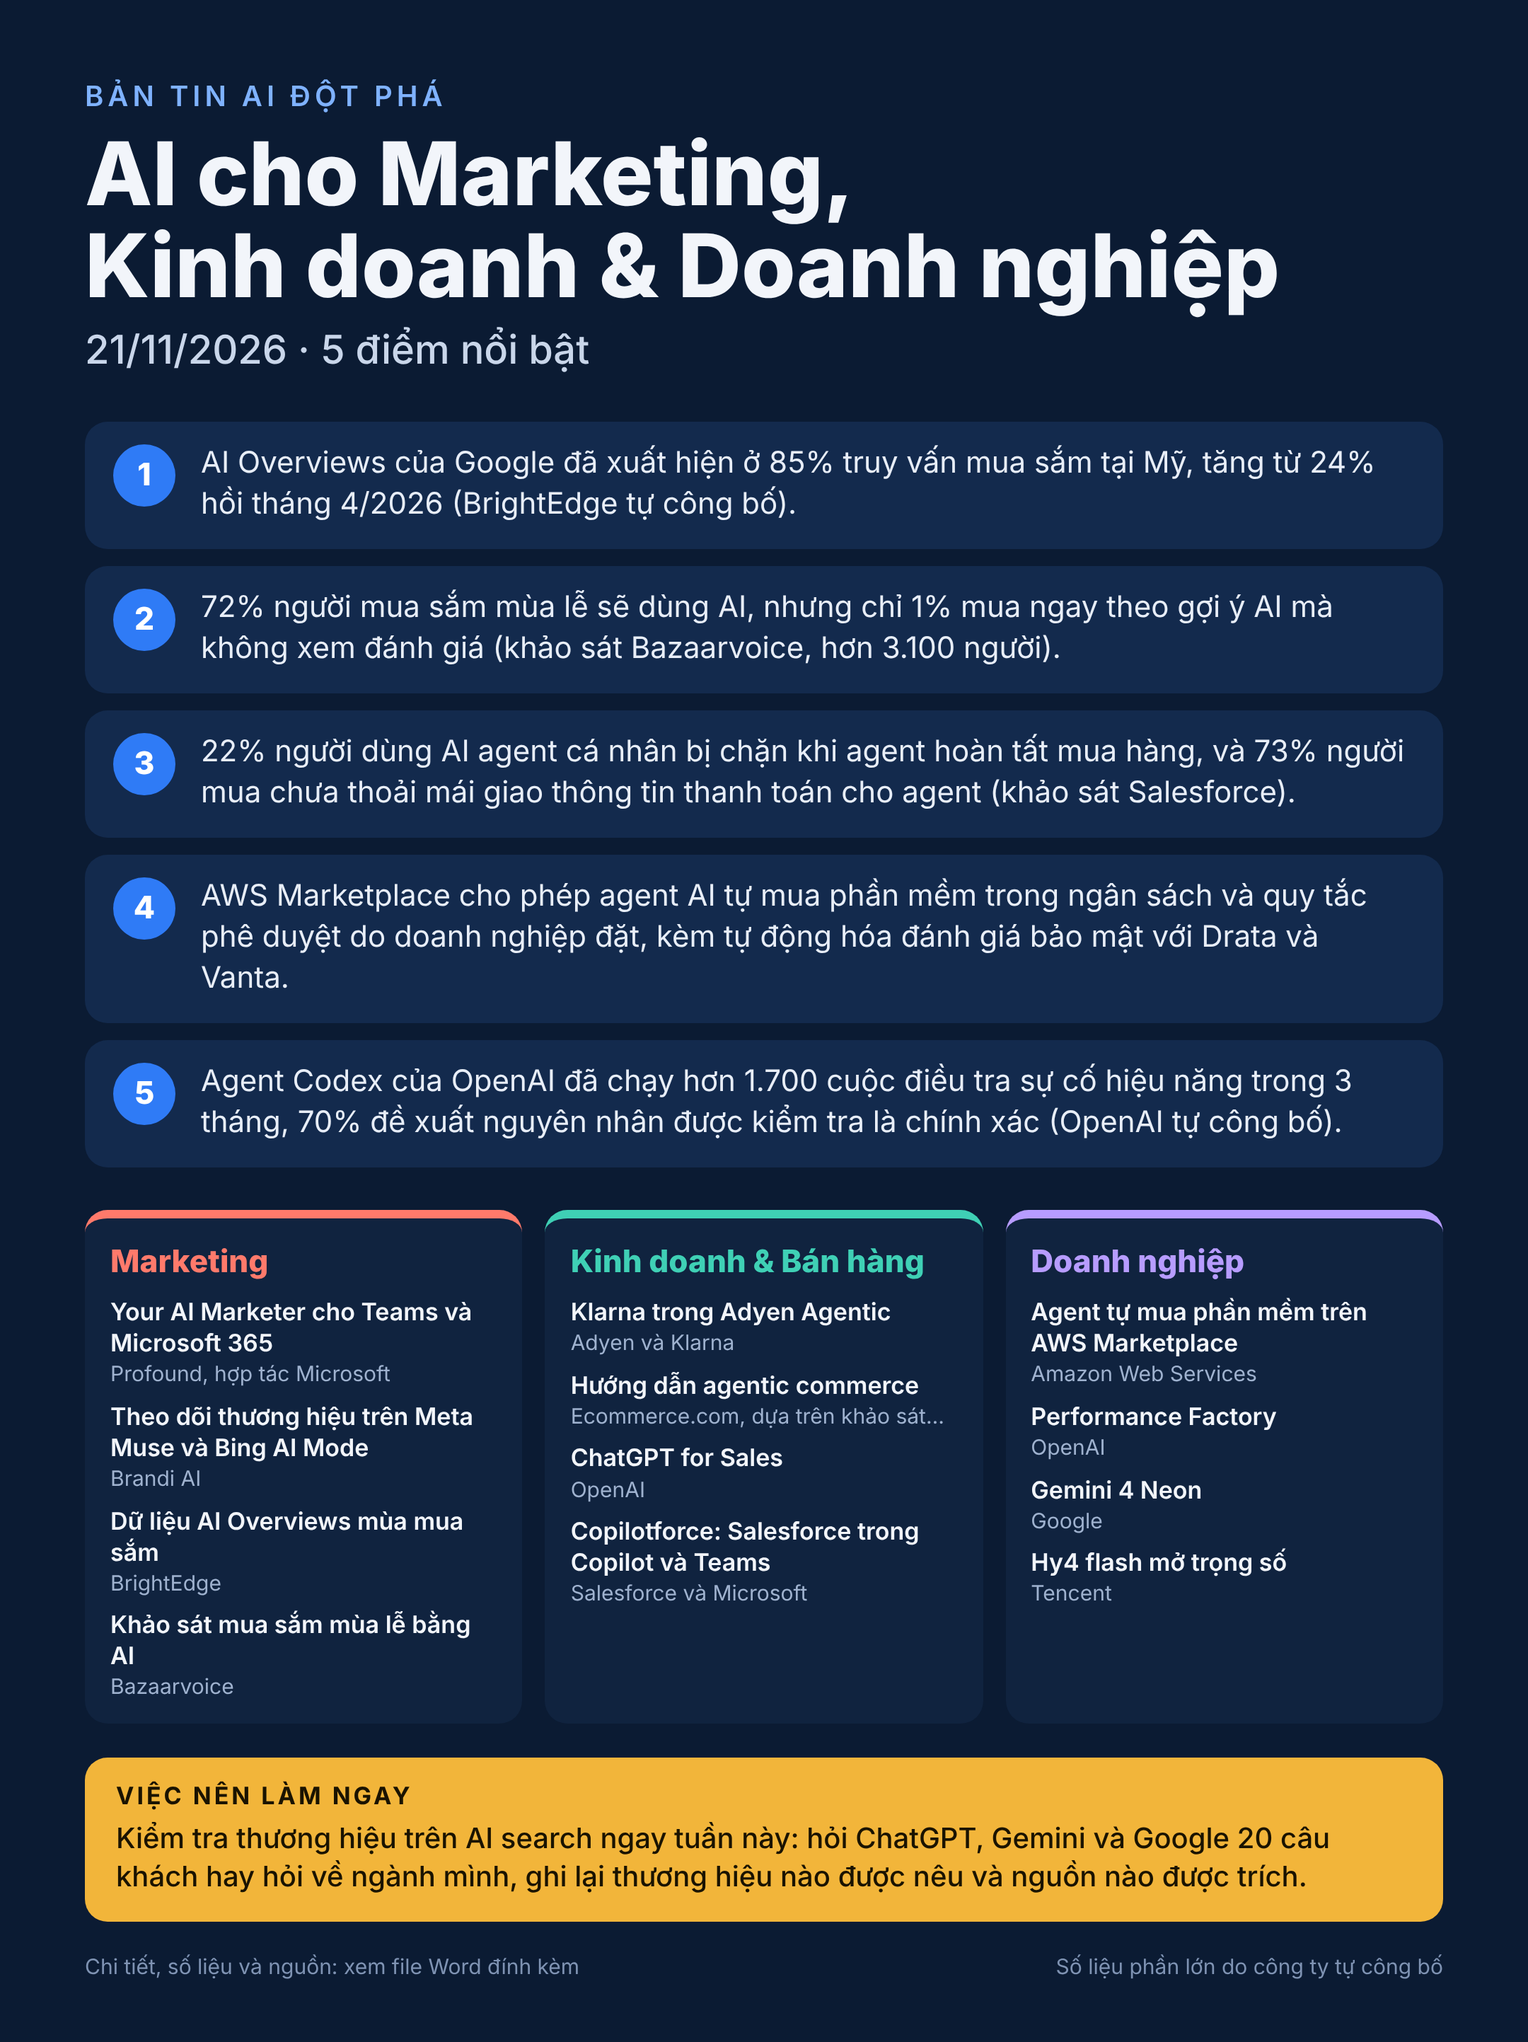
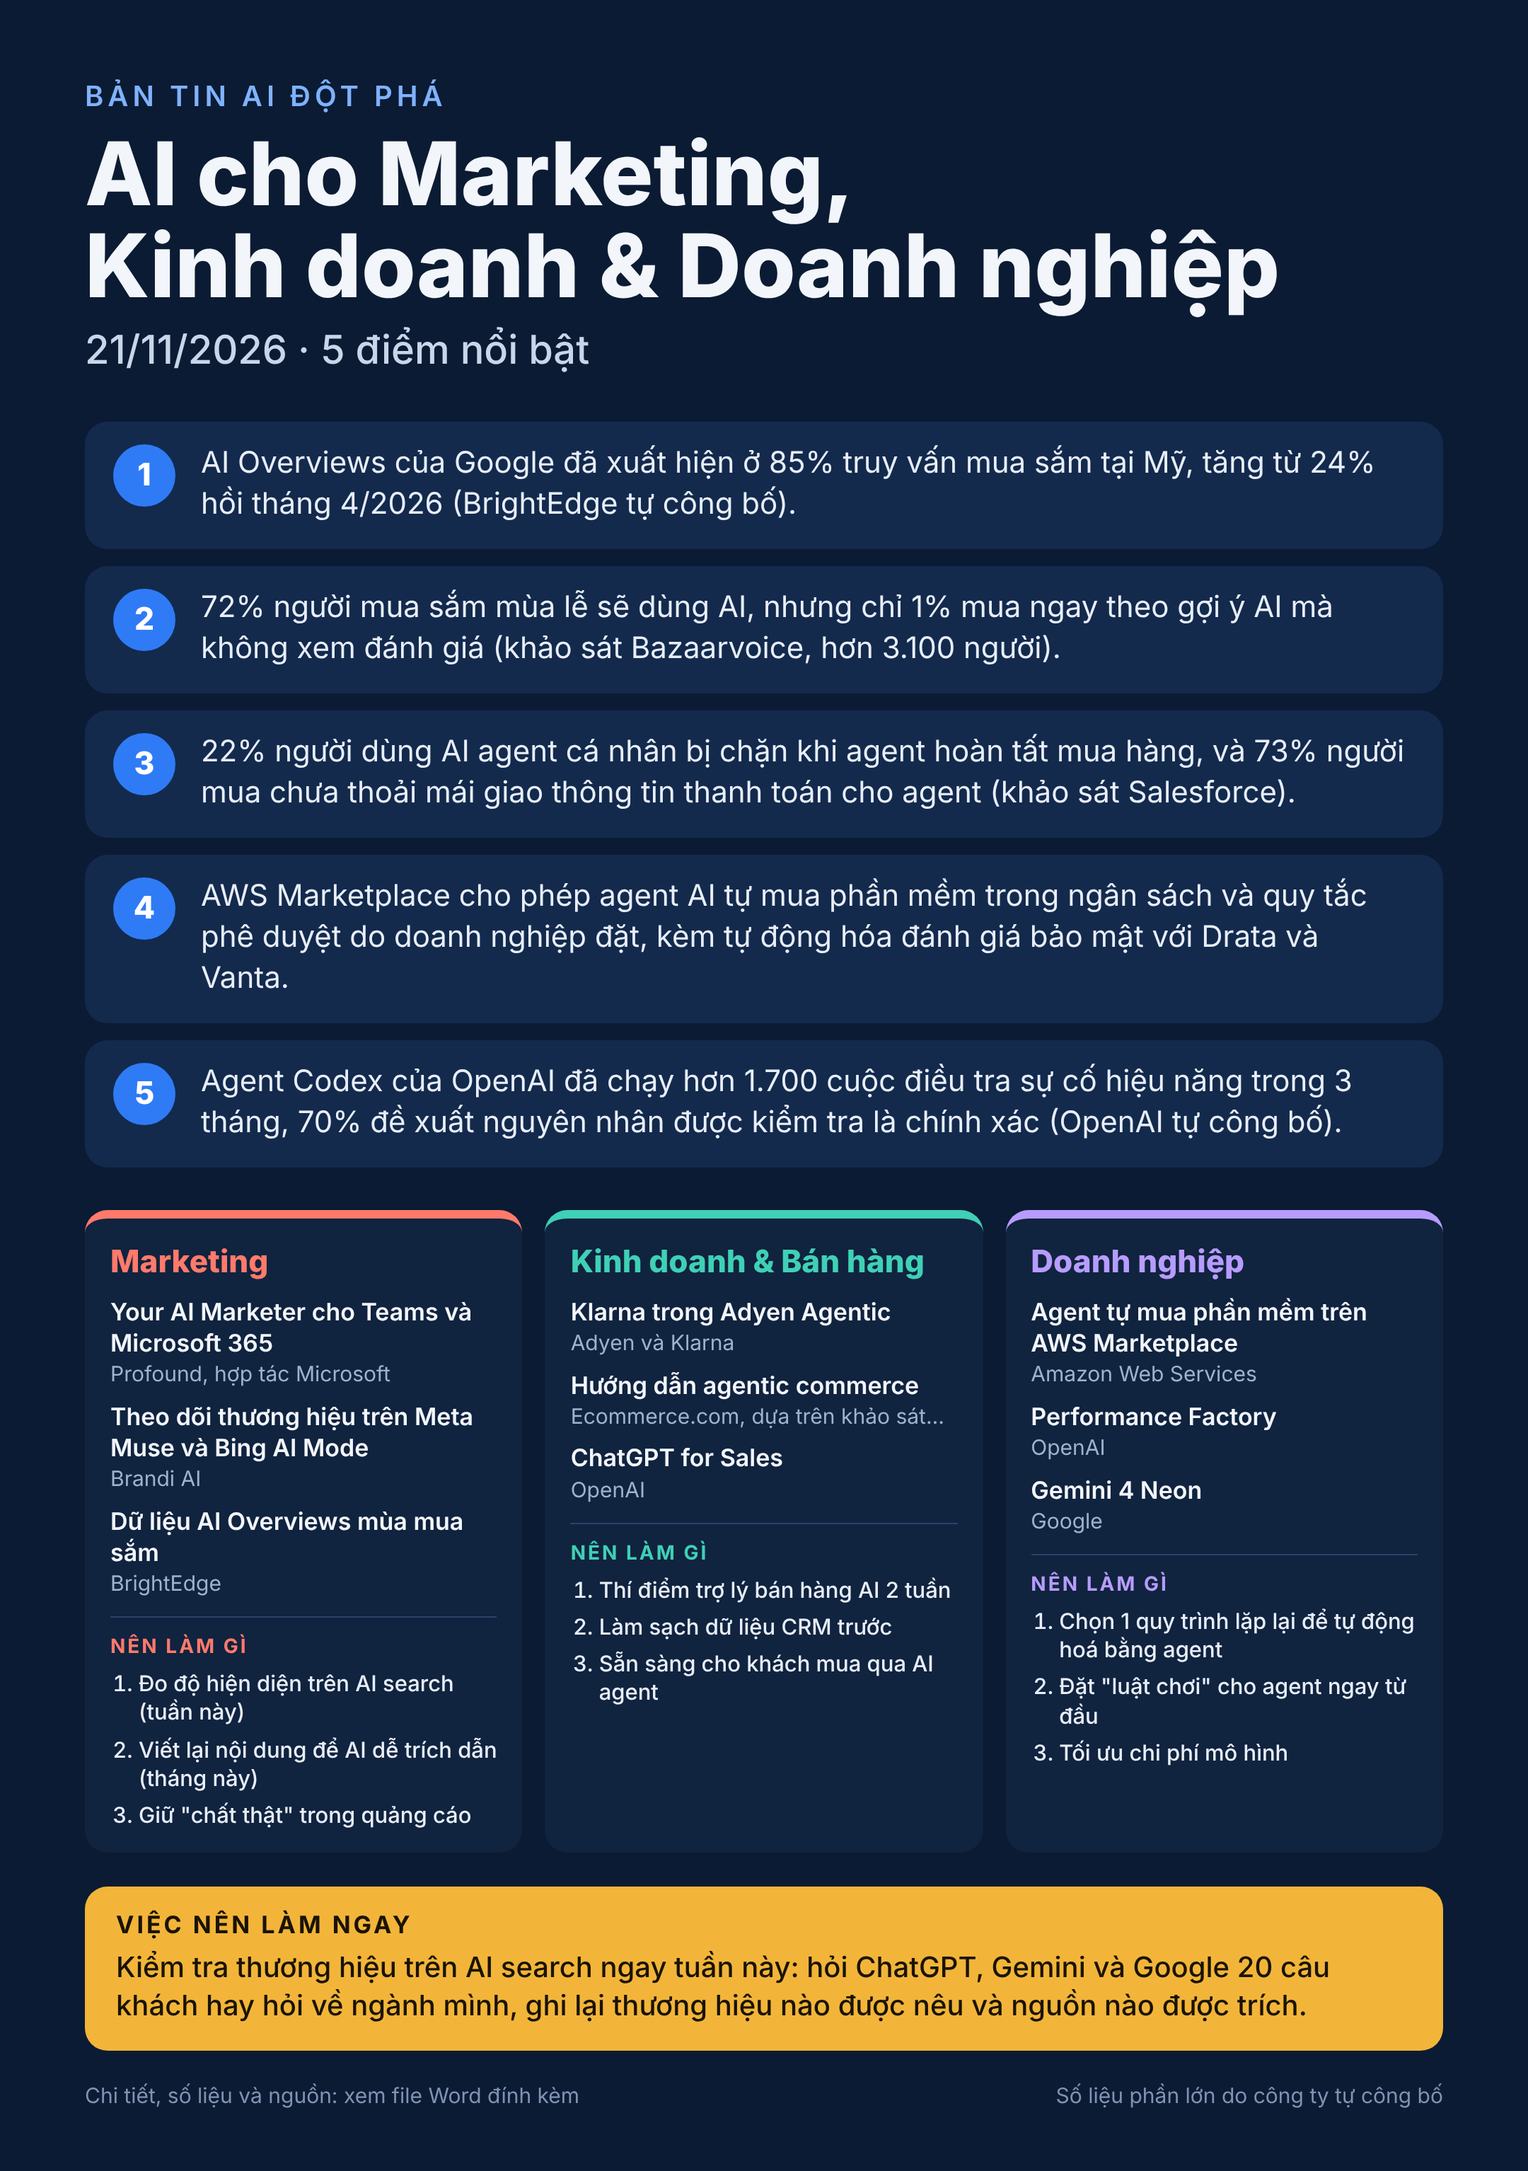
Thêm tư vấn giải pháp cho từng mảng vào bản tin AI
Claude-Session: https://claude.ai/code/session_0198WH8Bc1TvJbn8B3Eqt4gC

Changed region(s): [[0.031, 0.0312, 0.9616, 0.9667]]

diff --git a/ai-daily-report/tools/make_outputs.py b/ai-daily-report/tools/make_outputs.py
@@ -44,7 +44,15 @@ def parse_report(text):
                     cells = [c.strip() for c in line.strip().strip("|").split("|")]
                     if len(cells) >= 2 and cells[0].lower() not in ("ứng dụng",):
                         items.append({"name": strip_md(cells[0]), "org": strip_md(cells[1])})
-            data["areas"].append({"name": re.sub(r"^[123]\.\s*", "", head), "trend": trend, "items": items})
+            advice = []
+            am = re.search(r"^###\s+Tư vấn giải pháp.*?$(.*?)(?=^###\s|\Z)", body, re.M | re.S)
+            if am:
+                for b in re.findall(r"^\s*[-*]\s+(.+)$", am.group(1), re.M):
+                    bm = re.match(r"\*\*(.+?)\*\*", b)
+                    label = (bm.group(1) if bm else strip_md(b)).rstrip(": ").strip()
+                    if not label.lower().startswith("chỉ số"):
+                        advice.append(label)
+            data["areas"].append({"name": re.sub(r"^[123]\.\s*", "", head), "trend": trend, "items": items, "advice": advice})
         elif head.startswith("4.") or head.lower().startswith("gợi ý"):
             data["actions"] = [strip_md(x) for x in re.findall(r"^\s*[-*]\s+(.+)$", body, re.M)]
     return data
@@ -75,6 +83,10 @@ h1{font-size:62px;line-height:1.05;font-weight:800;margin-top:10px}
 .area ul{list-style:none;margin-top:12px;display:flex;flex-direction:column;gap:10px}
 .area li{font-size:17px;line-height:1.3;font-weight:600}
 .area li span{display:block;font-weight:400;color:#9FB2CF;font-size:15px}
+.adv{margin-top:14px;padding-top:12px;border-top:1px solid #2A4268}
+.adv b{display:block;font-size:14px;letter-spacing:1.5px;text-transform:uppercase;color:var(--c)}
+.adv ol{margin:8px 0 0 20px;display:flex;flex-direction:column;gap:6px}
+.adv li{font-size:15.5px;line-height:1.3;color:#E8EEF8;font-weight:500}
 .act{margin-top:24px;background:#F2B53A;color:#1A1300;border-radius:16px;padding:18px 22px}
 .act b{display:block;font-size:17px;letter-spacing:2px;text-transform:uppercase}
 .act p{font-size:20px;line-height:1.35;margin-top:6px;font-weight:500}
@@ -92,8 +104,10 @@ def build_poster_html(d):
     areas = ""
     for i, a in enumerate(d["areas"][:3]):
         lis = "".join(f'<li>{e(first_sentence(it["name"], 60))}<span>{e(first_sentence(it["org"], 40))}</span></li>'
-                      for it in a["items"][:4])
-        areas += f'<div class="area" style="--c:{COLORS[i % 3]}"><h2>{e(re.sub(r"^AI cho ", "", a["name"]))}</h2><ul>{lis}</ul></div>'
+                      for it in a["items"][:3])
+        adv = "".join(f"<li>{e(first_sentence(x, 70))}</li>" for x in a.get("advice", [])[:3])
+        adv_html = f'<div class="adv"><b>Nên làm gì</b><ol>{adv}</ol></div>' if adv else ""
+        areas += f'<div class="area" style="--c:{COLORS[i % 3]}"><h2>{e(re.sub(r"^AI cho ", "", a["name"]))}</h2><ul>{lis}</ul>{adv_html}</div>'
     act = d["actions"][0] if d["actions"] else ""
     act_html = f'<div class="act"><b>Việc nên làm ngay</b><p>{e(first_sentence(act, 190))}</p></div>' if act else ""
     return f"""<!doctype html><html lang="vi"><head><meta charset="utf-8"><style>{POSTER_CSS}</style></head>

diff --git a/ai-daily-report/samples/report.md b/ai-daily-report/samples/report.md
@@ -21,6 +21,13 @@ Nhận định: AI search đã thành kênh bán hàng mùa lễ, nên các côn
 | [Ask YouTube trên TV và máy chơi game](https://ppc.land/youtube-puts-ask-youtube-ai-search-on-tvs-and-gaming-consoles/) | YouTube (Google) | 19/11/2026 | Tìm kiếm hội thoại bằng giọng nói trên TV, trả lời kèm clip và tóm tắt video. YouTube nói hơn 140 triệu người dùng Ask YouTube (6/2026) và hơn 1 tỉ giờ xem trên TV mỗi ngày (tự công bố). |
 | [Khảo sát doanh nghiệp nhỏ mùa lễ](https://www.globenewswire.com/news-release/2026/11/19/3406608/0/en/verizon-survey-small-businesses-turn-to-social-media-ai-for-holidays.html) | Verizon Business | 19/11/2026 | 600 chủ doanh nghiệp nhỏ Mỹ: 45% dùng AI cho mùa lễ, 56% sẽ mở rộng AI sang marketing và tồn kho, 34% cần hỗ trợ làm nội dung mạng xã hội. Khảo sát do công ty đặt hàng. |
 
+### Tư vấn giải pháp: Marketing nên làm gì
+
+- **Đo độ hiện diện trên AI search (tuần này):** lập bộ 20–30 câu hỏi khách hay hỏi về ngành, hỏi ChatGPT, Gemini, Google AI Overviews; ghi thương hiệu nào được nêu, nguồn nào được trích. Lặp lại mỗi 2 tuần để thấy xu hướng. Công cụ: bảng tính thủ công trước, sau đó cân nhắc Profound hoặc Brandi AI khi cần quy mô.
+- **Viết lại nội dung để AI dễ trích dẫn (tháng này):** trang sản phẩm và bài blog cần câu trả lời ngắn ở đầu, bảng thông số, FAQ, số liệu có nguồn. Đây là thứ AI Overviews và ChatGPT thường lấy làm nguồn.
+- **Giữ "chất thật" trong quảng cáo:** dùng AI để làm nháp, biến thể và video ngắn, nhưng giữ ảnh sản phẩm thật, đánh giá thật của khách. 30% người mua Bắc Mỹ quay lưng với người mẫu AI, nên A/B test trước khi thay toàn bộ.
+- **Chỉ số theo dõi:** tỉ lệ câu hỏi có nêu thương hiệu, số nguồn của mình được trích, lượt truy cập đến từ ChatGPT/Perplexity trong Google Analytics.
+
 ## 2. AI cho Kinh doanh & Bán hàng
 
 Nhận định: Trước Black Friday, cuộc đua chuyển sang để AI agent tự thanh toán, nhưng niềm tin và tỉ lệ đơn bị chặn vẫn là điểm nghẽn. 48 giờ qua ít tin lớn, nên bảng có thêm 2 tin ngày 17/11 (ngoài khung 48 giờ, ghi rõ).
@@ -31,6 +38,13 @@ Nhận định: Trước Black Friday, cuộc đua chuyển sang để AI agent 
 | [Hướng dẫn agentic commerce](https://www.globenewswire.com/news-release/2026/11/20/3407735/0/en/new-agentic-commerce-guide-arrives-as-22-of-ai-agent-users-report-blocked-purchases.html) | Ecommerce.com, dựa trên khảo sát Salesforce | 20/11/2026 | Khảo sát hơn 2.500 người mua: 31% đã thử AI agent, trong đó 22% bị chặn khi mua, chỉ 32% không gặp lỗi lớn. Khách đến từ AI chuyển đổi cao hơn 2 lần (theo thông cáo, cỡ mẫu nhóm con chưa rõ). |
 | [ChatGPT for Sales](https://openai.com/index/introducing-chatgpt-for-sales/) | OpenAI | 17/11/2026 (ngoài 48 giờ) | Plugin Sales cùng hơn 30 plugin đối tác (Salesforce, HubSpot, Gong, Outreach...) và agent chạy việc định kỳ như rà soát deal hằng ngày. Khách hàng NeoBid ước tính giảm khoảng 65% công sức thủ công (ước tính của khách hàng). |
 | [Copilotforce: Salesforce trong Copilot và Teams](https://www.salesforce.com/news/stories/copilotforce-announcement/) | Salesforce và Microsoft | 17/11/2026 (ngoài 48 giờ) | Hỏi và thao tác Salesforce bằng ngôn ngữ tự nhiên trong Copilot (preview), Sales Cloud trong Teams (pilot). Accenture triển khai đầu tiên: Copilot cho hơn 740.000 người (tự công bố). |
+
+### Tư vấn giải pháp: Kinh doanh & Bán hàng nên làm gì
+
+- **Thí điểm trợ lý bán hàng AI 2 tuần:** chọn 2–3 nhân viên sales, nối CRM (HubSpot, Salesforce hoặc Google Sheets) với ChatGPT Business hoặc Copilot. Giao 3 việc: chuẩn bị trước cuộc gọi, soạn email follow-up, tóm tắt pipeline đầu ngày. Đo số giờ tiết kiệm và số lượt follow-up đúng hạn.
+- **Làm sạch dữ liệu CRM trước:** AI chỉ tốt khi dữ liệu khách, giai đoạn deal và ghi chú cuộc gọi đầy đủ. Dành 1 tuần chuẩn hoá trường bắt buộc trước khi mua công cụ.
+- **Sẵn sàng cho khách mua qua AI agent:** dữ liệu sản phẩm (giá, tồn kho, mô tả, chính sách đổi trả) phải có cấu trúc và cập nhật; kiểm tra checkout không chặn nhầm bot hợp lệ. 22% người dùng agent đang bị chặn khi mua, đó là doanh thu bị mất.
+- **Chỉ số theo dõi:** thời gian chuẩn bị mỗi cuộc gọi, tỉ lệ phản hồi email, tỉ lệ chốt deal của nhóm thí điểm so với nhóm còn lại.
 
 ## 3. AI cho Doanh nghiệp
 
@@ -43,6 +57,13 @@ Nhận định: Trọng tâm đang dịch từ xây agent sang quản agent: age
 | [Gemini 4 Neon](https://blog.google/innovation-and-ai/models-and-research/gemini-models/introducing-gemini-4-neon/) | Google | 19/11/2026 (giờ Việt Nam) | Mô hình tầm trung, 3 USD/15 USD mỗi 1 triệu token vào/ra, ngữ cảnh 1 triệu token. Google nói chi phí mỗi tác vụ thấp hơn 32% so với Carbon (tự công bố); đứng #1 Artificial Analysis Coding Agent Index (bên thứ ba). |
 | [Hy4 flash mở trọng số](https://technode.com/2026/11/19/tencent-releases-hy4-flash-model-weights-for-local-deployment/) | Tencent | 19/11/2026 | Khoảng 224 tỷ tham số, 12 tỷ kích hoạt mỗi token, ngữ cảnh 1 triệu token, chạy tại chỗ để giữ dữ liệu trong nước. Thông số do Tencent công bố; cần đọc giấy phép trước khi dùng thương mại. |
 | [Agent có danh tính Microsoft 365 trong Foundry](https://learn.microsoft.com/azure/foundry/agents/concepts/agent-365-integration) | Microsoft | 19/11/2026 | Agent được cấp danh tính Entra, email, lịch, OneDrive và một người quản lý chịu trách nhiệm; kèm hạn mức token, theo dõi chi phí và truy vết xuyên agent. Chưa có số liệu; trạng thái GA/preview cần kiểm tra lại. |
+
+### Tư vấn giải pháp: Doanh nghiệp nên làm gì
+
+- **Chọn 1 quy trình lặp lại để tự động hoá bằng agent:** ví dụ đối soát hoá đơn, xử lý yêu cầu nội bộ, báo cáo tuần. Tiêu chí: làm nhiều lần mỗi ngày, có quy tắc rõ, sai thì sửa được. Bắt đầu với người duyệt ở bước cuối, như AT&T và OpenAI đang làm.
+- **Đặt "luật chơi" cho agent ngay từ đầu:** mỗi agent có một người chịu trách nhiệm, hạn mức chi phí token mỗi tháng, danh sách công cụ và dữ liệu được phép dùng, và nhật ký mọi hành động. Đây là xu hướng Microsoft và AWS vừa đưa vào sản phẩm.
+- **Tối ưu chi phí mô hình:** dùng mô hình tầm trung rẻ (như Gemini 4 Neon) cho việc thường ngày, mô hình mạnh chỉ cho việc khó. Với dữ liệu nhạy cảm, cân nhắc mô hình mở chạy tại chỗ (như Hy4 flash) sau khi kiểm tra giấy phép.
+- **Chỉ số theo dõi:** số giờ công tiết kiệm mỗi tháng, tỉ lệ việc agent làm đúng không cần sửa, chi phí AI trên mỗi tác vụ.
 
 ## 4. Gợi ý hành động cho doanh nghiệp Việt Nam
 

diff --git a/ai-daily-report/AGENTS.md b/ai-daily-report/AGENTS.md
@@ -34,19 +34,20 @@ Nguồn gợi ý: aiagentstore.ai/ai-agent-news/this-week, aiagentsdirectory.com
 ## Agent 4 – Tổng hợp & gửi (6:41)
 1. Đọc 3 file kết quả của ngày. Thiếu file nào thì tự nghiên cứu nhanh mảng đó và ghi chú lại.
 2. Gộp, loại trùng, chọn 4–6 mục mạnh nhất mỗi mảng.
-3. Lưu `runs/YYYY-MM-DD/report.md` đúng khung (script poster đọc theo các tiêu đề này):
+3. **Tư vấn giải pháp cho từng mảng:** sau bảng tin của mỗi mảng, viết `### Tư vấn giải pháp: <Mảng> nên làm gì` gồm 3 giải pháp + 1 dòng "Chỉ số theo dõi". Mỗi giải pháp: `- **Tên việc ngắn (thời hạn):** làm gì, làm thế nào, công cụ gợi ý`, bám vào tin trong ngày và làm được cho doanh nghiệp Việt Nam vừa và nhỏ. Tên việc in đậm dưới 60 ký tự (poster dùng phần này).
+4. Lưu `runs/YYYY-MM-DD/report.md` đúng khung (script poster đọc theo các tiêu đề này):
    - `# Bản tin AI đột phá – DD/MM/YYYY`
    - `## Tóm tắt nhanh`: 5 điểm nổi bật (danh sách đánh số)
-   - `## 1. AI cho Marketing`: dòng "Nhận định: ..." + bảng Ứng dụng | Đơn vị | Ngày | Điểm đột phá
+   - `## 1. AI cho Marketing`: dòng "Nhận định: ..." + bảng Ứng dụng | Đơn vị | Ngày | Điểm đột phá + `### Tư vấn giải pháp`
    - `## 2. AI cho Kinh doanh & Bán hàng`, `## 3. AI cho Doanh nghiệp`: như trên
    - `## 4. Gợi ý hành động cho doanh nghiệp Việt Nam`: 3–4 gạch đầu dòng, dòng đầu là việc quan trọng nhất
    - `## Nguồn tham khảo`
    Có Claude Docs thì tạo thêm Doc cùng nội dung.
-4. Chạy `python3 tools/make_outputs.py runs/YYYY-MM-DD` để tạo:
-   - `poster.png`: poster tóm tắt (1080px ngang): 5 điểm nổi bật, các ứng dụng chính từng mảng, việc nên làm ngay.
+5. Chạy `python3 tools/make_outputs.py runs/YYYY-MM-DD` để tạo:
+   - `poster.png`: poster tóm tắt (1080px ngang): 5 điểm nổi bật, các ứng dụng chính và ô "Nên làm gì" của từng mảng, việc nên làm ngay.
    - `ban-tin-ai-YYYY-MM-DD.docx`: báo cáo Word chi tiết, có phụ lục ghi chép đầy đủ của 3 agent nghiên cứu.
-5. Gửi email tới mrbeanvn21@gmail.com: poster hiển thị trong thư, toàn bộ báo cáo, đính kèm poster.png và file Word. Gửi thông báo đẩy về điện thoại.
-6. Câu ngắn, có số liệu, không emoji. Ghi rõ khi số liệu do công ty tự công bố.
+6. Gửi email tới mrbeanvn21@gmail.com: poster hiển thị trong thư, toàn bộ báo cáo kèm tư vấn giải pháp, đính kèm poster.png và file Word. Gửi thông báo đẩy về điện thoại.
+7. Câu ngắn, có số liệu, không emoji. Ghi rõ khi số liệu do công ty tự công bố.
 
 ## Công cụ
 - `tools/make_outputs.py`: đọc `report.md` (+ 3 file của agent), tạo poster PNG (HTML + Playwright) và file Word (pandoc + python-docx). Cần: pandoc, python-docx, Node + Playwright, font Inter.
